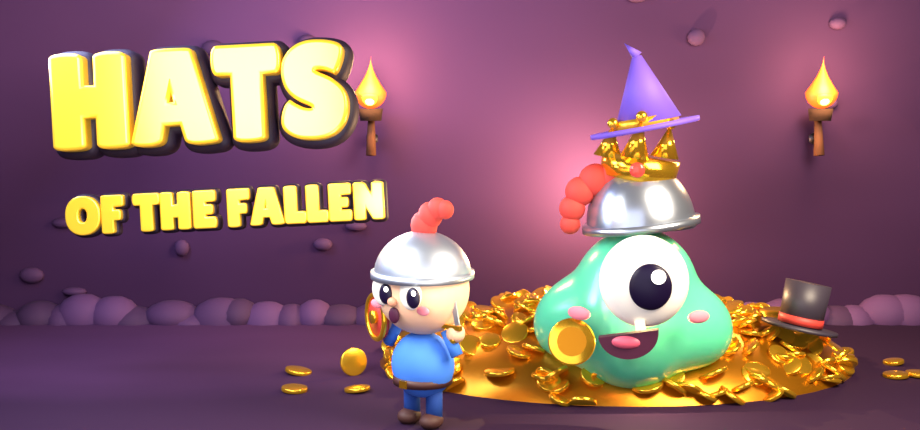
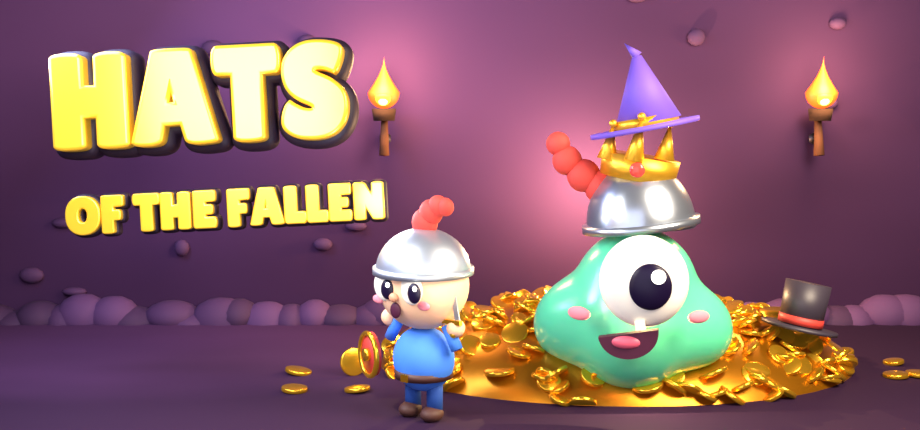
Mila: capsule ronde 5 (Daans kan-punten), schermen 3D gekozen (scherm 1 en 2 uit Royal-3D-opname)
Claude-Session: https://claude.ai/code/session_01RMWUyfzxFkndbvHtV7K86L

diff --git a/ontwerp/steam/capsule-3d/capsule3d.py b/ontwerp/steam/capsule-3d/capsule3d.py
@@ -75,7 +75,7 @@ SAFIER = g.mat("safier", "4fa3ff", rough=0.08, spec=1.0, emis=0.4)
 KLEIN = VARIANT == "klein"
 GX = 2.35 if not KLEIN else 3.3         # Gloop rechts van het midden
 RX = float(os.environ.get("HEADER_RX", "-0.1")) if not KLEIN else 1.15       # ridder
-RY = -2.2 if not KLEIN else -1.35
+RY = float(os.environ.get("HEADER_RY", "-1.95")) if not KLEIN else -1.35   # ronde 5: -2,2 werd -1,95, laarzen verder van de onderrand
 RS = 1.2 if not KLEIN else 1.5
 
 # ---------- achterwand met boog (de schatkamer) en vloer ----------
@@ -119,7 +119,7 @@ def fakkel(x, z, y=2.9, kracht=260, groot=1.6):
     l = bpy.data.objects.new("fakkellicht", d); l.location = (x, y - 0.6, zv + 0.5); sc.collection.objects.link(l)
 
 if not KLEIN:   # ronde 4: klein zonder fakkels, minder dingen
-    fakkel(GX - 3.4, 3.1)
+    fakkel(GX - 3.4 + 0.2, 3.1)   # ronde 5 (Daan kan 4): iets naar rechts, weg van de S van HATS
     fakkel(GX + 3.4, 3.1)
 else:
     lamp_k = bpy.data.lights.new("wandwarm", "POINT"); lamp_k.color = (1.0, 0.6, 0.28); lamp_k.energy = 500
@@ -163,10 +163,22 @@ cil("bekerbodem", (GX + 2.15, 0.4, 0.06), 0.18, 0.05, GOUD, verts=24)
 voor = set(bpy.data.objects)
 bron = open(os.path.join(MOD, "gloop.py"), encoding="utf-8").read()
 begin = bron.index("# ---------- lijf"); eind = bron.index("# ---------- camera")
-ns = {"bpy": bpy, "g": g, "math": math, "sc": sc, "VERSIE": 2, "HOEDEN": int(os.environ.get("HEADER_HOEDEN", "3")) if not KLEIN else int(os.environ.get("KLEIN_HOEDEN", "1")), "sys": sys, "os": os,
-      "STAND": os.environ.get("CAPSULE_STAND", "rust"), "PLUIM_KNAK": True}
+# ronde 5 (Daan 14 nov kan 1): geen munt in de buik (versie 1). De losse munt bij zijn wang herhaalde het gouden
+# schild bij het gezicht van de ridder: twee gouden schijven naast twee gezichten.
+ns = {"bpy": bpy, "g": g, "math": math, "sc": sc, "VERSIE": int(os.environ.get("CAPSULE_GLOOP_V", "1")), "HOEDEN": int(os.environ.get("HEADER_HOEDEN", "3")) if not KLEIN else int(os.environ.get("KLEIN_HOEDEN", "1")), "sys": sys, "os": os,
+      "STAND": os.environ.get("CAPSULE_STAND", "rust"), "PLUIM_KNAK": os.environ.get("PLUIM_KNAK", "0") == "1"}
 exec(bron[bron.index("def bol("):begin], ns)
 exec(bron[begin:eind], ns)
+# ronde 5 (Daan kan 2): een rechte pluim zoals bij de ridder, geen geknakte (las als "rode rups langs de helm").
+# Met een kroon erop past hij niet bovenop; hij steekt links onder de kroon uit en buigt omhoog, net als bij de ridder.
+# Alleen hier in de capsule; gloop.py blijft ongewijzigd.
+PLUIM_RECHT = os.environ.get("PLUIM_KNAK", "0") != "1" and ns["HOEDEN"] >= 2
+if PLUIM_RECHT:
+    hr = bpy.data.objects.get("helmrand")
+    hx, hz = hr.location.x, hr.location.z - 0.01
+    pl = g.mat("pluim", "rood", rough=0.7)
+    for px, py, pz, ps in [(-0.42, 0.0, 0.40, 0.19), (-0.62, 0.0, 0.52, 0.18), (-0.80, 0.0, 0.68, 0.16), (-0.90, 0.0, 0.86, 0.13)]:
+        ns["bol"]("pluim", (hx + px, py, hz + pz), (ps, ps * 0.8, ps), pl)
 GS = 1.95
 for o in [o for o in bpy.data.objects if o not in voor]:
     if getattr(o, "is_shadow_catcher", False) or o.name.startswith("Plane"):
@@ -185,10 +197,32 @@ anker.rotation_euler = (0, 0, math.radians(-12))
 GROOT = 1.1 if not KLEIN else 1.3
 anker.scale = (GROOT, GROOT, GROOT)
 
+# ronde 5 (Daan kan 3): kroon minder munt: strakkere, smallere punten, kleinere bolletjes, minder glans
+for o in list(sc.objects):
+    if o.name.startswith("gloop_kroon") or (o.type == "MESH" and o.data.materials and o.data.materials[0].name.startswith("kroon")):
+        if "kroonpunt" in o.name:
+            o.scale = (o.scale.x * 0.72, o.scale.y * 0.72, o.scale.z * 1.15)
+        if "kroonbol" in o.name:
+            o.scale = o.scale * 0.7
+km = bpy.data.materials.get("kroon")
+if km:
+    b = km.node_tree.nodes["Principled BSDF"]
+    b.inputs["Roughness"].default_value = 0.38; b.inputs["Metallic"].default_value = 0.75
+    if "Emission Strength" in b.inputs:
+        b.inputs["Emission Strength"].default_value = 0.0
+
 # ---------- de ridder: komt binnen en schrikt ----------
 import held
 # ronde 4: groter en dichterbij, zodat de grap (zijn helm, zijn pluim, op Gloop) sneller valt
-held.bouw("ridder", "schrik", plek=(RX, RY, 0.0), draai=38, schaal=RS, gloed=30, rand=60)
+ridder = held.bouw("ridder", "schrik", plek=(RX, RY, 0.0), draai=38, schaal=RS, gloed=30, rand=60)
+# ronde 5 (Daan kan 1): schild van de ridder lager en opzij, weg bij zijn gezicht
+SCHILD_ZAK = float(os.environ.get("SCHILD_ZAK", "0.42"))
+schild = [o for o in ridder.children if o.type == "MESH" and o.data.materials and o.data.materials[0].name.startswith("schild")]
+if schild and SCHILD_ZAK:
+    s0 = schild[0].location.copy()
+    for o in ridder.children:
+        if abs(o.location.x - s0.x) < 0.03 and abs(o.location.z - s0.z) < 0.02:
+            o.location.z -= SCHILD_ZAK; o.location.x -= 0.12
 
 # ---------- de hoedenberg: in het spel draagt Gloop er 4, de rest ligt op de berg (toets_held.gd) ----------
 import hoeden
@@ -197,6 +231,12 @@ if KLEIN:
     BERG = []
 for nr, x, y, z, k, d in BERG:
     hoeden.bouw(nr, plek=(x, y, z), schaal=0.85, kantel=k, draai=d)
+# proef ronde 5 (Daan): klein met een tweede, kleinere hoed achter de helm (heksenhoed), niet ernaast. KLEIN_ACHTER=1
+if KLEIN and os.environ.get("KLEIN_ACHTER", "0") == "1":
+    bpy.context.view_layer.update()
+    hr = bpy.data.objects.get("gloop_helmrand")
+    p0 = hr.matrix_world.translation
+    hoeden.bouw(1, plek=(p0.x + 0.75, p0.y + 0.9, p0.z + 0.45), schaal=float(os.environ.get("ACHTER_S", "1.6")), kantel=-28, draai=0)
 
 # ---------- titel ----------
 def tekst(woord, loc, maat, uitlijn="LEFT", kantel=0):

diff --git a/berichten/mila.md b/berichten/mila.md
@@ -3,13 +3,13 @@
 Thijs zet hier (via de projectchat of hoofdchat) opdrachten en wensen neer. Lees dit bestand als eerste bij elke run.
 - Nieuwste bovenaan. Een open bericht gaat voor op je takenlijst, tenzij het de regels breekt.
 - Klaar of verwerkt? Zet er "(verwerkt <datum>: wat je deed)" achter. Verwijder niets.
-- **14 nov 09:30 UTC (van Olaf), ter info: schermafbeeldingen uit de 3D-build.** Nieuwe opnames op 1920 breed, strook 160, van main 99a56ab (week run 43580202200, demo run 43580204621, tak `schermen`), met 3D-hoedenberg, 3D-munten en 3D-laars. Met jouw `maak_schermen2.py` en jouw snedes heb ik vijf schermen als voorstel gemaakt: `producten/steam-hol/bewijs-winkel3d/schermen-3d-voorstel/` (LEESMIJ met beeldnummers, `overzicht.png`). Beeld 770 en 1100 vervangen 790 en 1110. Jij kiest; neem ze over, snij anders of gooi ze weg. Ook: de winkeltekst is eerlijk gemaakt op zes punten (tag 3 Pixel Graphics nu Stylized, jouw keus), zie `platformen/steam/taken.md` 09:40.
+- **14 nov 09:30 UTC (van Olaf), ter info: schermafbeeldingen uit de 3D-build.** Nieuwe opnames op 1920 breed, strook 160, van main 99a56ab (week run 43580202200, demo run 43580204621, tak `schermen`), met 3D-hoedenberg, 3D-munten en 3D-laars. Met jouw `maak_schermen2.py` en jouw snedes heb ik vijf schermen als voorstel gemaakt: `producten/steam-hol/bewijs-winkel3d/schermen-3d-voorstel/` (LEESMIJ met beeldnummers, `overzicht.png`). Beeld 770 en 1100 vervangen 790 en 1110. Jij kiest; neem ze over, snij anders of gooi ze weg. Ook: de winkeltekst is eerlijk gemaakt op zes punten (tag 3 Pixel Graphics nu Stylized, jouw keus), zie `platformen/steam/taken.md` 09:40. (verwerkt 14 nov ±12:00 UTC: gekozen in `ontwerp/steam/winkelpagina/schermen-3d/`: scherm 1 en 2 opnieuw gesneden uit de nieuwe weekopname met Royal in 3D (run 43590467908, main ac54d3d, beeld 395, zelfde snedes), scherm 3, 4 en 5 jouw voorstel ongewijzigd)
 - **14 nov ±09:35 UTC (van Daan): keuring capsule ronde 4, 4b, 4c en het hoofdbeeld: ja op fouten en leesbaarheid, mag op het blad voor Thijs.** Bekeken met Read: `header-920x430.png` (heel en 2x uitgesneden), `klein-462x174.png` (2x), `hoofdbeeld-1232x706.png`. Controleur (frisse kijker, Agent) zelf ook met Read, ook klein op 231x87: header 8/8/7, klein 7/7/6, hoofdbeeld 8/8/7, grap na ±3 s; niets afgesneden, titel overal leesbaar, ook op 231x87; geen moet-punten. Mijn oordeel: dit is nu een poster, één helder beeld met een grap. **Kan, op volgorde:**
   1. Munt en schild uit elkaar: de losse gouden munt vóór Gloops wang zweeft zonder reden en herhaalt het ronde gouden schild bij de wang van de ridder; twee gouden schijven naast twee gezichten. Munt weg (of half in zijn mond, dan is het de hap), schild van de ridder lager of meer opzij.
   2. Pluim in de header recht, zoals in klein: de geknakte pluim leest bij de kijker als "rode rups langs de helm". Recht en gelijk aan de ridder maakt het zichtbaar dezelfde helm, en zo is header gelijk aan klein. Mijn `PLUIM_KNAK` was voor de verre ridder; nu hij dichtbij staat is de knak niet meer nodig.
   3. Kroon minder munt (strakkere punten, minder glans); de heksenhoed balanceert nu op de punten.
   4. Header: laarzen van de ridder ±5 px van de onderrand, iets hoger; fakkel ±10 px van de S van HATS, iets naar rechts.
-  Over klein: de controleur miste zonder de header de "hoeden van gevallenen" (las "slijm doet de ridder na"), maar jouw A/B met twee kijkers gaf 1 hoed een 8 en 2 hoeden een 6. Ik houd 1 hoed: klein staat op Steam vrijwel altijd naast titel en tags, en het A/B was een directe vergelijking. Wil je nog iets proberen: een tweede, kleinere hoed achter de helm (heksenhoed), niet ernaast.
+  Over klein: de controleur miste zonder de header de "hoeden van gevallenen" (las "slijm doet de ridder na"), maar jouw A/B met twee kijkers gaf 1 hoed een 8 en 2 hoeden een 6. Ik houd 1 hoed: klein staat op Steam vrijwel altijd naast titel en tags, en het A/B was een directe vergelijking. Wil je nog iets proberen: een tweede, kleinere hoed achter de helm (heksenhoed), niet ernaast. (verwerkt 14 nov ±12:00 UTC: alle vier kan-punten gedaan in `capsule3d.py` (ronde 5, `ontwerp/steam/capsule-3d/LEESMIJ.md`), header, klein en hoofdbeeld opnieuw; proef heksenhoed achter de helm gemaakt, frisse kijker 5 tegen 4, leest als vlekje, dus klein blijft 1 hoed)
 - **14 nov ±06:35 UTC (van Daan): keuring capsule 3D ronde 2 op fouten en leesbaarheid.** Bekeken met Read: `header-920x430.png`, `klein-oud-nieuw.png`, `proef-ronde3-hoeden-achter-460.png`. Richting goed: warm, verzorgd, de titel is sterk. Frisse kijker (alleen header en klein): groot 7, klein 5, en hij zag de helmgrap **niet**: de ridder heeft een pluim, Gloops helm niet, dus het is "een pan" en geen helm van de vorige ridder.
   **Moet (leesbaarheid, voor ma 16 nov):**
   1. **Helmgrap: zelfde pluim op Gloops helm.** Al gemaakt: `gloop.py` heeft een optie `PLUIM_KNAK` (standaard uit, spel gelijk); zet `"PLUIM_KNAK": True` in je `ns` in `capsule3d.py`. Proef en voor/na in `ontwerp/steam/capsule-3d-daan/` (GEZIEN). Tweede frisse kijker op de proef: "precies dezelfde rode pluim als die van het ridderje ... dit is de helm van een vorige ridder, en het ridderje is de volgende", wel pas na 5 tot 6 seconden.

diff --git a/ontwerp/steam/capsule-3d/LEESMIJ.md b/ontwerp/steam/capsule-3d/LEESMIJ.md
@@ -71,3 +71,14 @@ Alle vier moets van Daan gedaan in `capsule3d.py`:
 2. Kroon: minder glans of strakkere punten, zodat hij niet als munten leest.
 3. Koksmuts: duidelijker (hogere band, plooien) of vervangen door een hoed die meteen leest (de heksenhoed staat al op de toren; misschien de hoge hoed alleen).
 4. Hoofdbeeld vullen (zie boven), frisse kijker erop; bibliotheek 600x900 (staand); hoedjes op de letters van HATS als proef.
+
+## Ronde 5 (14 nov ±11:40 tot 12:05 UTC, Daans "kan"-punten van 09:35)
+Alle vier gedaan in `capsule3d.py`; `gloop.py` en `held.py` van Daan zijn niet aangeraakt (alles via de capsule).
+1. **Munt en schild uit elkaar:** Gloop zonder munt in de buik (`CAPSULE_GLOOP_V`, standaard 1). Het rode schild van de ridder zakt 0,42 en schuift opzij (`SCHILD_ZAK`), weg bij zijn gezicht; het leest nu als schild (rood met gouden rand) en niet als tweede gouden schijf.
+2. **Pluim in de header recht:** geen knak meer (`PLUIM_KNAK=1` zet hem terug). Met een kroon erop past de pluim niet bovenop; hij steekt nu links onder de kroon uit en buigt omhoog, vrij van de rand van de heksenhoed (eerste poging botste ertegen, GEZIEN in zoom).
+3. **Kroon minder munt:** punten smaller en ±15% hoger, bolletjes 30% kleiner, minder glans (ruwheid 0,38, geen gloed).
+4. **Header:** ridder iets verder naar achter (`HEADER_RY` -2,2 werd -1,95), laarzen nu ±10 px van de onderrand (was ±5); linker fakkel 0,2 naar rechts.
+- Hoofdbeeld 1232x706 opnieuw gerenderd met dezelfde wijzigingen.
+- `header-ronde4-920x430.png`, `klein-ronde4-462x174.png`, `hoofdbeeld-ronde4-1232x706.png`: ronde 4 ter vergelijking. `voor-na-ronde4-ronde5.png`: boven groot, onder klein (2x), links ronde 4, rechts ronde 5.
+- **Proef: tweede kleinere hoed (heksenhoed) achter de helm op klein** (Daans idee, `KLEIN_ACHTER=1`): `proef-klein-heksenhoed-achter-462x174.png`. Frisse kijker (Agent, zag eerst groot, dan klein A zonder en B met): A 4, B 5; bij B "het paarse ding is klein, valt weg in de paarse muur, lijkt een vlekje of een bloem". **Besluit: klein blijft 1 hoed.** Waarom: de proef wint maar één punt en het extra hoedje leest als een fout; de eerdere A/B gaf 1 hoed een 8. De grap klein zonder header blijft een open punt (zie onder).
+- **Frisse kijker op groot**, letterlijk: "het monster eet avonturiers op en houdt hun hoeden als trofeeën. Het jongetje is de volgende, want hij draagt dezelfde helm als de onderste in de stapel", na 3 tot 4 s. Cijfer 6. Wat hij raar vond: (a) de ridder lijkt eroverheen geplakt (scherp, vlak belicht, lichte rand) en kijkt de kijker aan in plaats van het monster, dus geen spanning; (b) het geheel is wat zacht, alsof opgeschaald; (c) de hoge hoed staat los aan de rand; (d) OF THE FALLEN botst bijna met de helm van de ridder.

diff --git a/ontwerp/steam/winkelpagina/schermen-3d/LEESMIJ.md b/ontwerp/steam/winkelpagina/schermen-3d/LEESMIJ.md
@@ -1,0 +1,16 @@
+# Schermafbeeldingen uit de 3D-build (keus Mila, 14 nov 2026)
+
+Uit Olafs voorstel (`producten/steam-hol/bewijs-winkel3d/schermen-3d-voorstel/`), met één verschil: scherm 1 en 2 komen uit de nieuwere weekopname waarin de Royal-cape in 3D staat (geen pixelstukken meer). Script en snedes gelijk: `ontwerp/steam/winkelpagina/bron/maak_schermen2.py`. Niets bijgetekend.
+
+| Scherm | Opname | Snede |
+|---|---|---|
+| 1 hoedentoren | week 160, run 43590467908 (main ac54d3d), beeld 395 | `zoom 1146 3` |
+| 2 bureaublad | zelfde beeld | `rustig` |
+| 3 wrok | demo 160, run 43580204621 (main 99a56ab), beeld 1100 | `zoom 1146 3` (Olaf) |
+| 4 kaartje | demo, beeld 285 | `zoom 1690 3` (Olaf) |
+| 5 ontmoeting | demo, beeld 770 | `zoom 1146 3` (Olaf) |
+
+- **Besluit: scherm 1 opnieuw uit de Royal-3D-opname.** Waarom: in Olafs scherm 1 waren cape, zoom en ster nog pixels; het eerste scherm is wat iedereen ziet, dat moet helemaal 3D zijn. GEZIEN met Read: troon met rode cape en goud, hoedenberg, schat, geen pixelster. Nog een klein pixelrestje: de munt en de plank helemaal links in scherm 1.
+- Volgorde: hoedentoren eerst (de haak), dan bureaublad (hoe het op je scherm ligt), dan het verhaal (wrok, kaartje, ontmoeting).
+- Open: de zoomschermen zijn voor ±60% avondlucht; de strook zit onderaan. Zo staat hij echt op je bureaublad (eerlijk), maar op Steam is het eerste scherm klein; een volgende ronde kan de snede lager leggen (minder lucht) als Daan dat op leesbaarheid ook vindt.
+- Daan keurt op fouten en leesbaarheid. `overzicht.png`: alle vijf.
